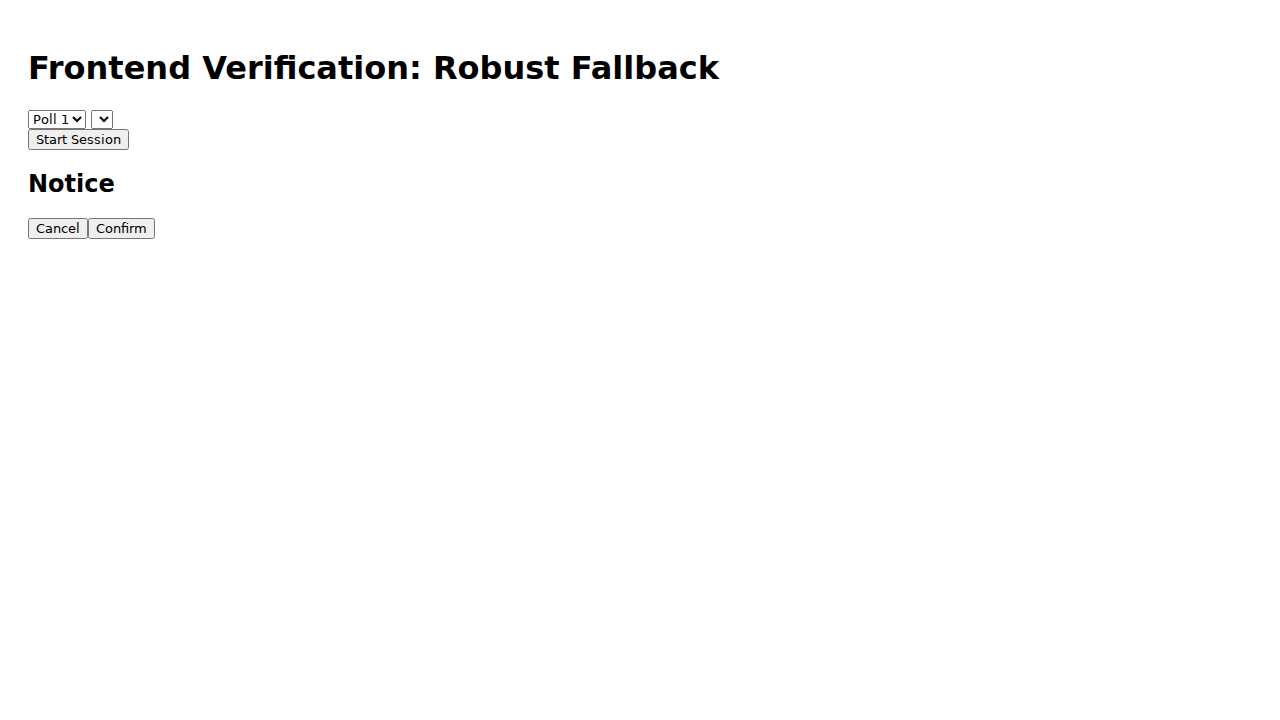
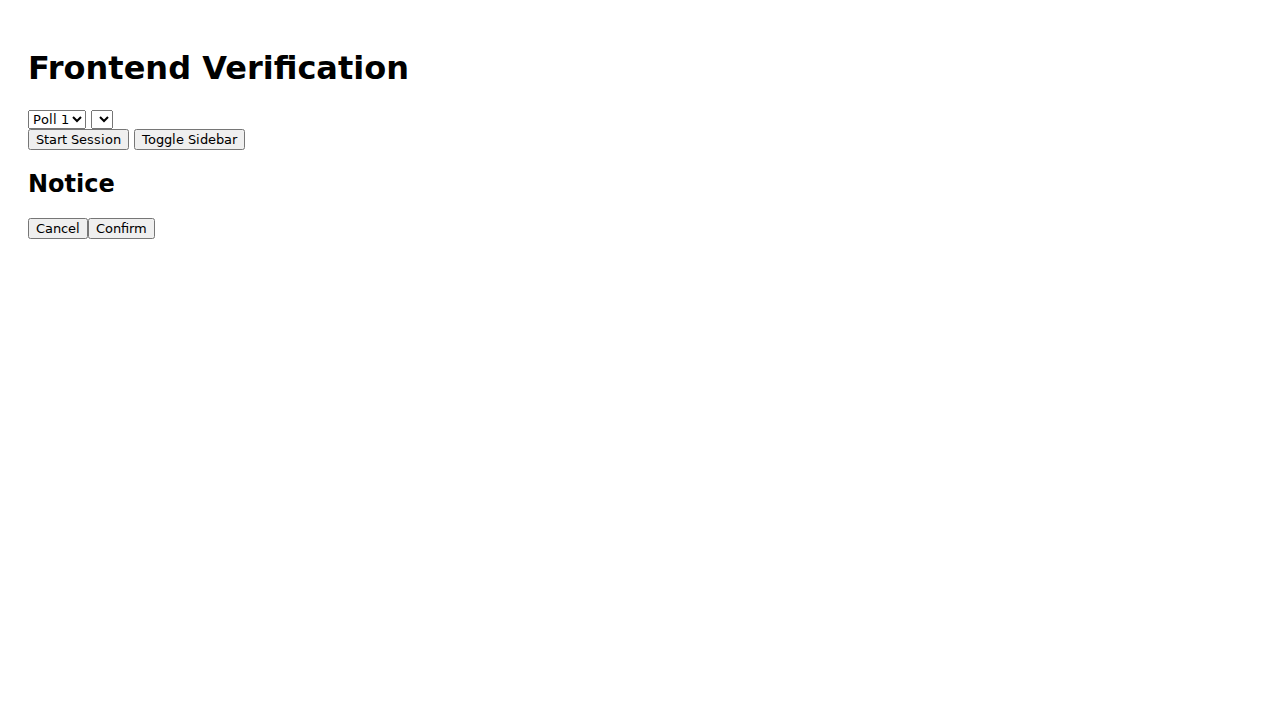
Fix auth performance, stuck UI, and sidebar toggle bugs
- Optimized Firebase Auth: Implemented caching for OAuth tokens in `Core_Security.gs` to eliminate 1-2s delay per request and prevent "Invalid argument" errors with Service Accounts.
- Fixed Stuck UI: Corrected a circular dependency in `handleLightweightSessionUpdate` (frontend) where missing poll data caused the fallback mechanism to crash.
- Fixed Sidebar Visibility: Updated `setDashboardSidebarVisibility` to properly remove the `lg:flex` responsive class, ensuring the sidebar collapses correctly on large screens in Live View.
- Added Missing ID: Added `id="live-sidebar"` to the right column in `Teacher_Body.html` to support toggle functionality.
- Updated Permissions: Added `script.external_request` scope to manifest.

Changed region(s): [[0.3125, 0.0611, 0.5625, 0.1222], [0.0938, 0.1833, 0.1875, 0.2139]]

diff --git a/verification/mock_teacher.html b/verification/mock_teacher.html
@@ -6,15 +6,24 @@
         body { font-family: sans-serif; padding: 20px; }
         #loader { display: none; background: #eee; padding: 10px; }
         #live-poll-view { margin-top: 20px; padding: 20px; border: 2px solid green; background: #e0ffe0; }
-        .error { color: red; }
+        .hidden { display: none; }
+        .flex { display: flex; }
+        /* Mock tailwind lg:flex behavior */
+        @media (min-width: 1024px) {
+            .lg\:flex { display: flex !important; }
+        }
     </style>
 </head>
 <body>
-    <h1>Frontend Verification: Robust Fallback</h1>
+    <h1>Frontend Verification</h1>
     <div id="loader">Loading...</div>
 
-    <!-- UI Elements expected by script -->
-    <div id="dashboard-sidebar"></div>
+    <!-- UI Elements -->
+    <!-- Sidebar with lg:flex class -->
+    <aside id="dashboard-sidebar" class="hidden lg:flex w-64 bg-gray-800 text-white p-4">
+        Sidebar Content
+    </aside>
+
     <div id="dashboard"></div>
     <div id="live-view"></div>
     <div id="roster-manager"></div>
@@ -26,8 +35,12 @@
     <div id="student-table-body"></div>
     <div id="poll-details-card"></div>
     <button id="start-poll-btn">Start Session</button>
-    <button id="end-poll-btn" style="display:none">End Session</button>
-    <div id="live-poll-view" style="display:none;"></div>
+
+    <button id="dashboard-sidebar-toggle-live">Toggle Sidebar</button>
+    <button id="header-start-btn" class="hidden"></button>
+
+    <div id="header-default"></div>
+    <div id="header-live"></div>
 
     <!-- Mocks -->
     <script>
@@ -35,7 +48,6 @@
             createHeartbeat: function() { return { start: function(){}, stop: function(){} }; }
         };
 
-        // Mock global firebase if needed
         var firebase = {
             apps: [],
             initializeApp: function() {},
@@ -44,17 +56,10 @@
             },
             ServerValue: { TIMESTAMP: 12345 }
         };
-        // Also ensure database property exists for the initial access
         firebase.database.ServerValue = { TIMESTAMP: 12345 };
 
-        var broadcastSessionState = function(pid, payload) {
-            console.log('Mock Broadcast:', pid, payload);
-        };
-
-        // Mock Config
         var FIREBASE_CONFIG = {};
 
-        // Mock Google Script Run
         var google = {
             script: {
                 run: {
@@ -63,8 +68,7 @@
                             withFailureHandler: function(failure) {
                                 return {
                                     getLivePollData: function(pollId, qIndex) {
-                                        console.log('Mock: getLivePollData called with', pollId, qIndex);
-                                        // Simulate server response after delay
+                                        console.log('Mock: getLivePollData called');
                                         setTimeout(function() {
                                             console.log('Mock: Server returning full data');
                                             try {
@@ -74,16 +78,9 @@
                                                     status: 'LIVE',
                                                     metadata: { sessionPhase: 'LIVE', resultsVisibility: 'HIDDEN' },
                                                     calculatorEnabled: false,
-                                                    // Minimal data for updateLiveView
                                                     questions: [{text: 'Q1'}],
                                                     correctAnswer: 'A'
                                                 });
-
-                                                // UI verification hook
-                                                document.body.setAttribute('data-verification', 'success');
-                                                document.getElementById('live-poll-view').style.display = 'block';
-                                                document.getElementById('live-poll-view').innerText = 'Live View Updated Successfully via Fallback!';
-                                                console.log('Mock: Success handler completed');
                                             } catch (e) {
                                                 console.error('Mock: Success handler CRASHED:', e);
                                             }
@@ -99,7 +96,6 @@
             }
         };
 
-        // Mock other helpers
         function veritasAlert(msg) { console.log('Alert:', msg); }
         function previewOnlyNotice() {}
         function showDashboard() {}
@@ -115,20 +111,13 @@
     <script src="Teacher_Scripts_Content.js"></script>
 
     <script>
-        // Test Trigger
         window.onload = function() {
             setTimeout(function() {
-                console.log('--- TEST STARTING ---');
-                // Check globals
-                console.log('pollSelect exists:', !!pollSelect);
-                console.log('updateLiveView exists:', typeof updateLiveView);
+                console.log('--- TEST 1: Fallback Logic ---');
 
-                console.log('Simulating lightweight update with missing CURRENT_POLL_DATA...');
-
-                // Ensure CURRENT_POLL_DATA is in "bad" state (no questions)
+                // Ensure CURRENT_POLL_DATA is in "bad" state
                 if (typeof CURRENT_POLL_DATA !== 'undefined') {
                     CURRENT_POLL_DATA = {};
-                    console.log('Forced CURRENT_POLL_DATA to {}');
                 }
 
                 var data = {
@@ -143,8 +132,21 @@
                     handleLightweightSessionUpdate(data);
                 } catch (e) {
                     console.error('Error running handleLightweightSessionUpdate:', e);
-                    document.body.innerText = 'Error: ' + e.message;
                 }
+
+                // Check sidebar after updateLiveView (triggered by fallback)
+                setTimeout(function() {
+                    console.log('--- TEST 2: Sidebar Visibility ---');
+                    var sidebar = document.getElementById('dashboard-sidebar');
+                    console.log('Sidebar classes:', sidebar.className);
+
+                    // We expect lg:flex to be REMOVED
+                    if (!sidebar.classList.contains('lg:flex') && sidebar.classList.contains('hidden')) {
+                        console.log('SUCCESS: Sidebar is correctly hidden (lg:flex removed)');
+                    } else {
+                        console.error('FAILURE: Sidebar still has lg:flex or is not hidden');
+                    }
+                }, 1000);
 
             }, 500);
         };

diff --git a/src/Teacher_Scripts.html b/src/Teacher_Scripts.html
@@ -1828,11 +1828,15 @@
       if (visible) {
         dashboardSidebar.classList.remove('hidden');
         dashboardSidebar.classList.add('flex');
-        dashboardSidebar.style.display = ''; // Clear inline style if any
+        // Restore lg:flex if it was removed
+        dashboardSidebar.classList.add('lg:flex');
+        dashboardSidebar.style.display = '';
       } else {
         dashboardSidebar.classList.add('hidden');
         dashboardSidebar.classList.remove('flex');
-        dashboardSidebar.style.display = ''; // Clear inline style if any
+        // CRITICAL FIX: Also remove lg:flex, otherwise it overrides hidden on large screens
+        dashboardSidebar.classList.remove('lg:flex');
+        dashboardSidebar.style.display = '';
       }
       updateDashboardSidebarToggleState();
     }

diff --git a/verification/Teacher_Scripts_Content.js b/verification/Teacher_Scripts_Content.js
@@ -1826,11 +1826,15 @@
       if (visible) {
         dashboardSidebar.classList.remove('hidden');
         dashboardSidebar.classList.add('flex');
-        dashboardSidebar.style.display = ''; // Clear inline style if any
+        // Restore lg:flex if it was removed
+        dashboardSidebar.classList.add('lg:flex');
+        dashboardSidebar.style.display = '';
       } else {
         dashboardSidebar.classList.add('hidden');
         dashboardSidebar.classList.remove('flex');
-        dashboardSidebar.style.display = ''; // Clear inline style if any
+        // CRITICAL FIX: Also remove lg:flex, otherwise it overrides hidden on large screens
+        dashboardSidebar.classList.remove('lg:flex');
+        dashboardSidebar.style.display = '';
       }
       updateDashboardSidebarToggleState();
     }

diff --git a/src/Teacher_Body.html b/src/Teacher_Body.html
@@ -631,7 +631,7 @@
             </div>
 
             <!-- RIGHT COLUMN: STUDENTS + CONFIDENCE PULSE (Fixed Width) -->
-            <div class="w-full lg:w-96 flex-none flex flex-col gap-4 h-full overflow-hidden min-h-0">
+            <div id="live-sidebar" class="w-full lg:w-96 flex-none flex flex-col gap-4 h-full overflow-hidden min-h-0 transition-all duration-300 ease-in-out">
 
               <!-- STUDENTS PANEL -->
               <div

diff --git a/verification/verify_fixes.py b/verification/verify_fixes.py
@@ -1,0 +1,36 @@
+
+from playwright.sync_api import Page, expect, sync_playwright
+import os
+
+def test_fixes(page: Page):
+    cwd = os.getcwd()
+    file_path = f"file://{cwd}/verification/mock_teacher.html"
+
+    console_messages = []
+    page.on("console", lambda msg: console_messages.append(msg.text))
+
+    page.goto(file_path)
+
+    print("Waiting for tests to complete...")
+    page.wait_for_timeout(3000)
+
+    logs = "\n".join(console_messages)
+    print(f"Captured Logs:\n{logs}")
+
+    # Verify Fallback
+    assert "Mock: getLivePollData called" in logs, "Fallback did not call server"
+
+    # Verify Sidebar
+    assert "SUCCESS: Sidebar is correctly hidden" in logs, "Sidebar visibility fix failed"
+
+    print("ALL VERIFICATIONS PASSED")
+    page.screenshot(path="verification/verification.png")
+
+if __name__ == "__main__":
+    with sync_playwright() as p:
+        browser = p.chromium.launch(headless=True)
+        page = browser.new_page()
+        try:
+            test_fixes(page)
+        finally:
+            browser.close()
